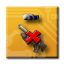
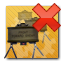
! Limitierte Ausrüstung nun Teil des Standardregelsatzes. * Limitierte Ausrüstungsregel aktualisiert. * Scripts gesäubert.

diff --git a/ModernCombatFINALTRY.c4d/Items.c4d/Ammo.c4d/CustomAmmo.c4d/Script.c b/ModernCombatFINALTRY.c4d/Items.c4d/Ammo.c4d/CustomAmmo.c4d/Script.c
@@ -12,13 +12,15 @@ public func IsDrawable()	{return true;}
 public func HandSize()		{return 800;}
 public func HandX()		{return 6000;}
 public func HandY()		{return -1000;}
-public func LimitationCount()   {return 3;}
+public func LimitationCount()	{return 3;}
+
+
+/* Initialisierung */
 
 protected func Initialize()
 {
   CheckLimitation();
 }
-
 
 public func SetAmmoID(id idType)
 {

diff --git a/ModernCombatFINALTRY.c4d/Libraries.c4d/DefaultScript.c4d/Script.c b/ModernCombatFINALTRY.c4d/Libraries.c4d/DefaultScript.c4d/Script.c
@@ -45,7 +45,7 @@ public func ChooserFinished()
 func ChooserRuleConfig()
 {
   //Standardregelsatz: Belohnungssystem, Kein FriendlyFire, Waffen bleiben, Arena
-  var array = [RWDS, NOFF, WPST, NODR];
+  var array = [RWDS, NOFF, WPST, NODR, LIMT];
   return array;
 }
 

diff --git a/ModernCombatFINALTRY.c4d/Items.c4d/Equipment.c4d/Detonator.c4d/C4.c4d/Script.c b/ModernCombatFINALTRY.c4d/Items.c4d/Equipment.c4d/Detonator.c4d/C4.c4d/Script.c
@@ -4,8 +4,8 @@
 
 local fuse, active, thrown, pStickTo, iStickXOffset, iStickYOffset, iStickROffset, iPreviousCategory;
 
+public func LimitationCount()	{return 8;}
 
-public func LimitationCount()   {return 8;}
 
 /* Initialisierung */
 

diff --git a/ModernCombatFINALTRY.c4d/Items.c4d/Equipment.c4d/Dragnin.c4d/Script.c b/ModernCombatFINALTRY.c4d/Items.c4d/Equipment.c4d/Dragnin.c4d/Script.c
@@ -11,6 +11,8 @@ public func NoArenaRemove()	{return true;}
 public func LimitationCount()	{return 3;}
 
 
+/* Initialisierung */
+
 protected func Initialize()
 {
   CheckLimitation();

diff --git a/ModernCombatFINALTRY.c4d/Rules.c4d/LimitedEquipment.c4d/Script.c b/ModernCombatFINALTRY.c4d/Rules.c4d/LimitedEquipment.c4d/Script.c
@@ -2,7 +2,8 @@
 
 #strict 2
 
-public func IsChooseable() { return true; }
+public func IsChooseable()	{return true;}
+
 
 protected func Activate(iPlr)
 {
